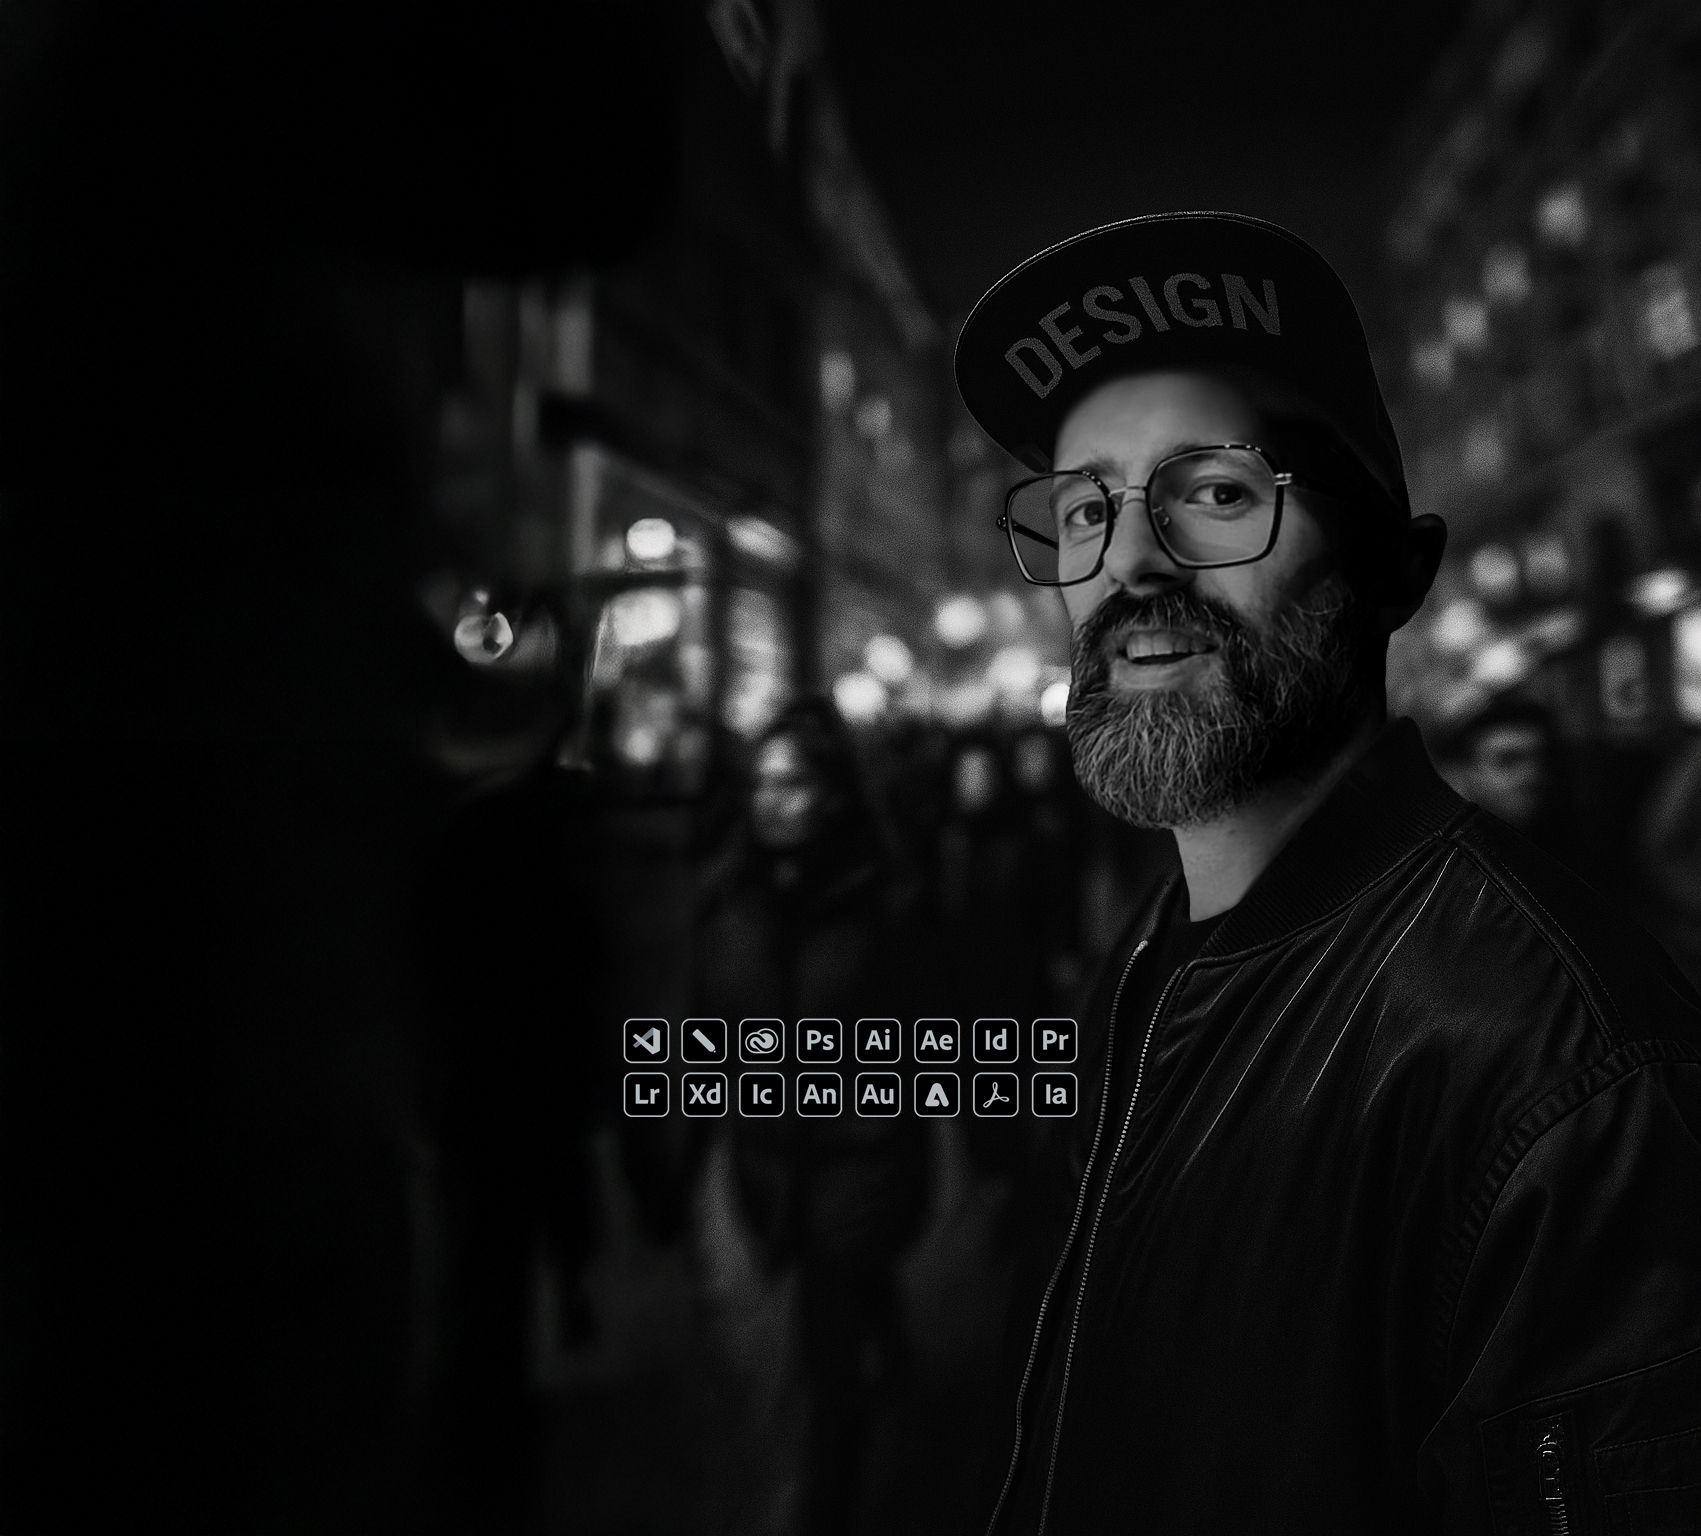
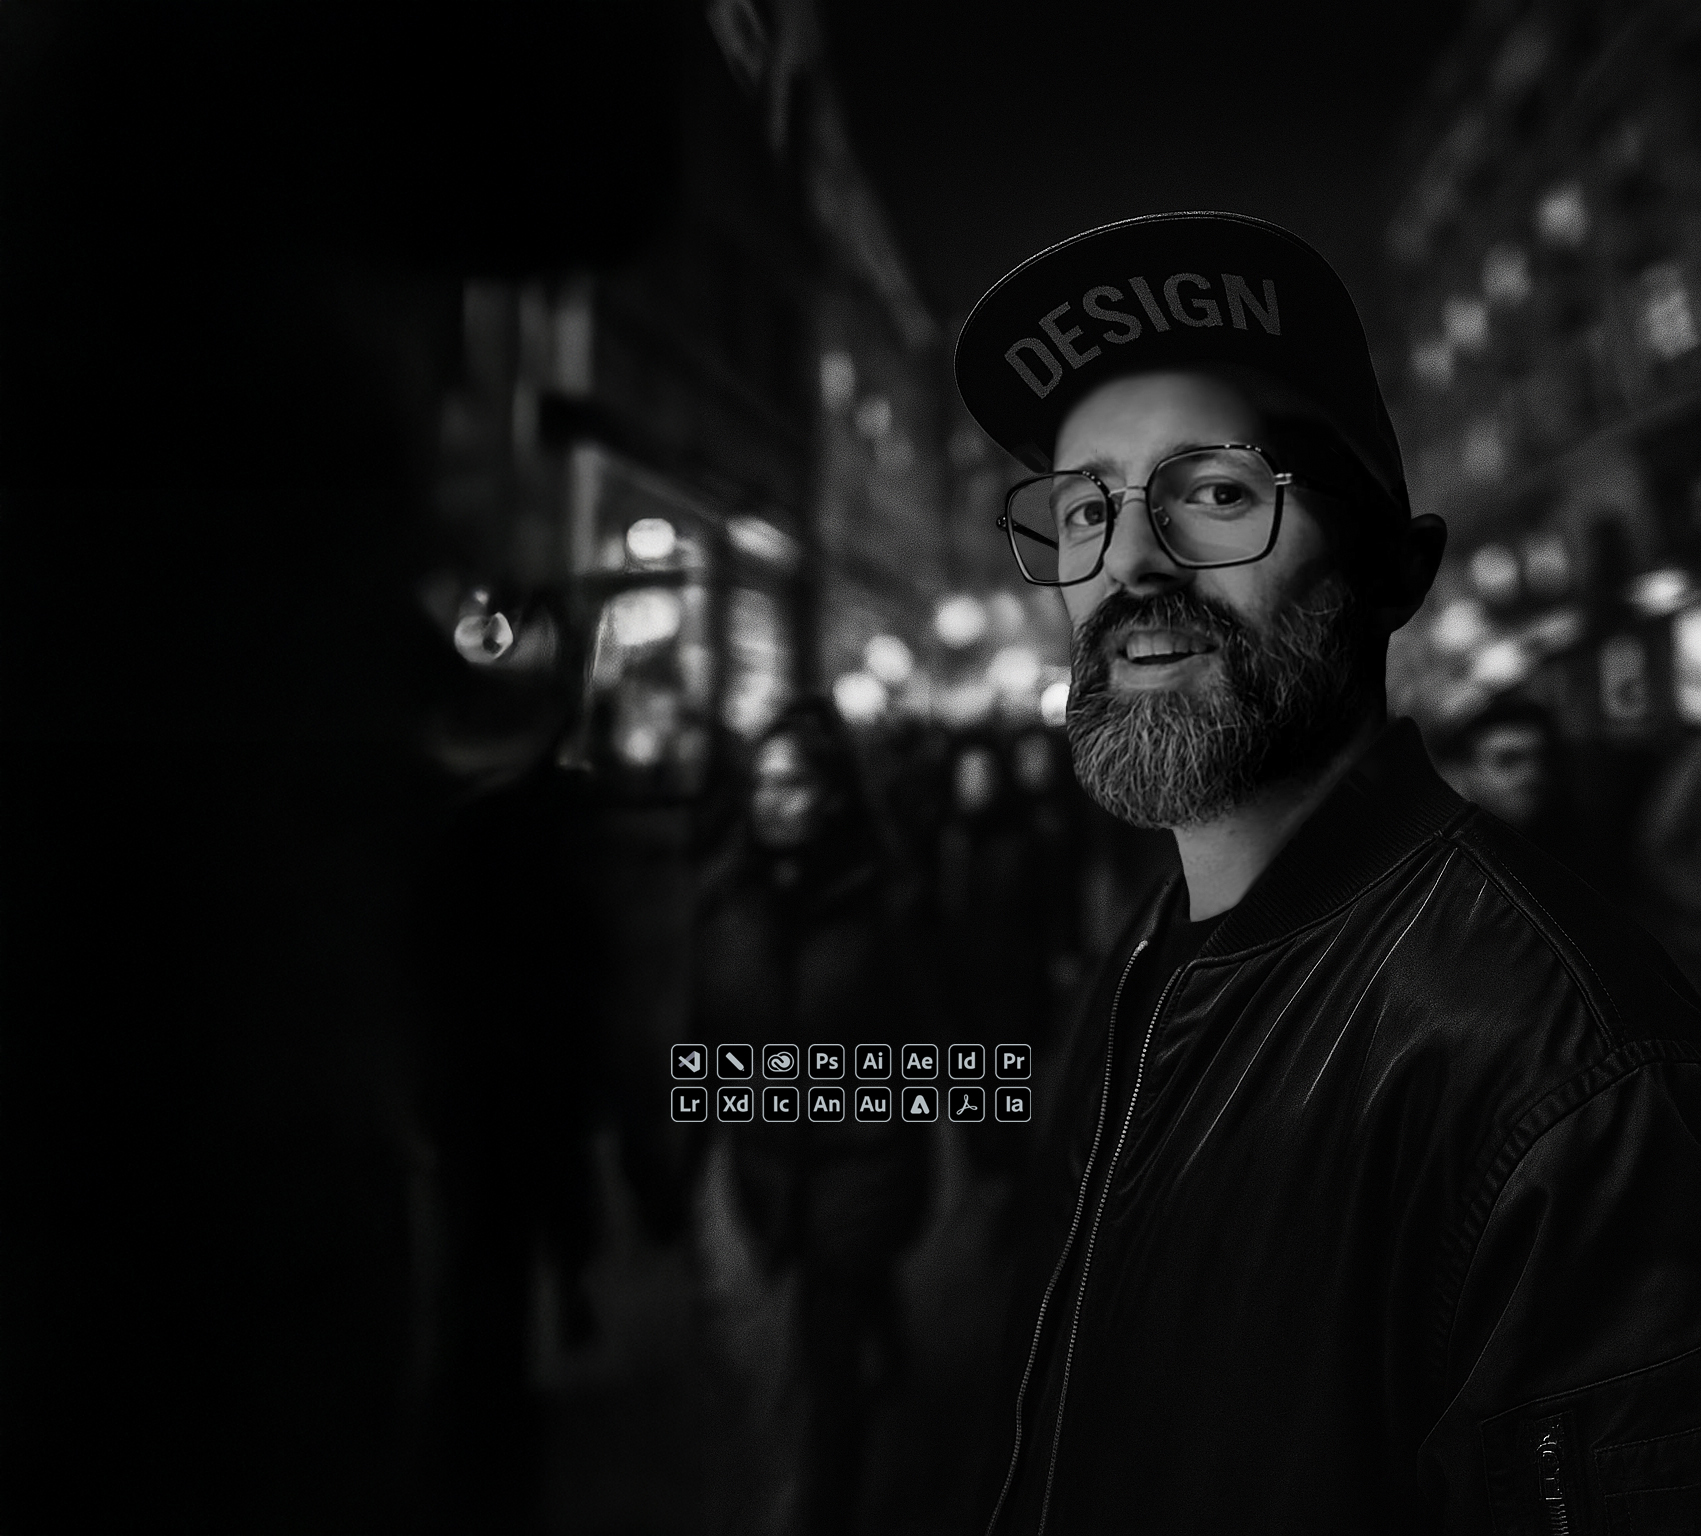
correcciones resopnsivas

Changed region(s): [[0.3739, 0.6562, 0.6543, 0.75]]

diff --git a/index.html b/index.html
@@ -53,7 +53,7 @@
       <img src="assets/imagenes/a.png" alt="a" class="img-fluid mb-4 logo-a animate__animated animate__zoomInDown float">
     
       <h3 class="typing-effect">DISAINER</h3>
-      <img src="assets/imagenes/agl.png" alt="NOMBRE">
+      <img src="assets/imagenes/agl.png" alt="NOMBRE" class="img-fluid logo-agl">
     </section>
 
     <!-- Sección: Servicios -->

diff --git a/scss/partials/components/_general.scss b/scss/partials/components/_general.scss
@@ -74,6 +74,18 @@ body {
   }
 }
 
+// Logo nombre AGL
+.logo-agl {
+  max-width: 420px;
+  width: 100%;
+  height: auto;
+  margin: 0 auto $spacing-xs;
+
+  @include responsive(mobile) {
+    max-width: 220px;
+  }
+}
+
 // Sección de servicios
 .section_two_inicio {
   padding: $spacing-lg $spacing-md;

diff --git a/styles/styles.css b/styles/styles.css
@@ -11,6 +11,8 @@ img {
   display: block;
 }
 
+/* estilos movidos a SCSS: .logo-agl */
+
 a {
   text-decoration: none;
   color: inherit;
